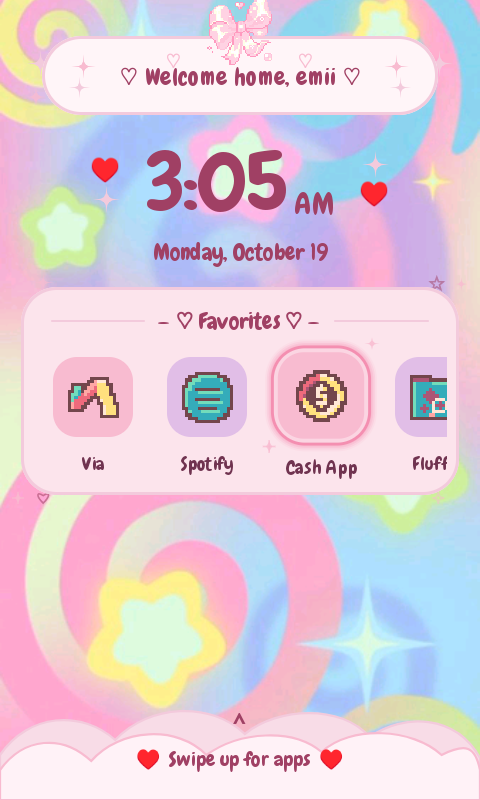
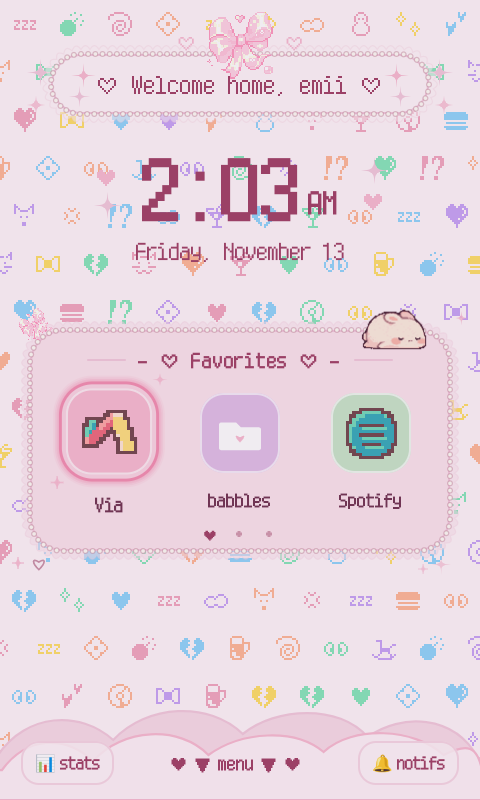
docs: update showcase screenshots

diff --git a/docs/index.html b/docs/index.html
@@ -376,28 +376,36 @@
             <figcaption>home screen</figcaption>
           </figure></li>
           <li class="polaroid"><figure>
-            <img src="screenshots/2_folder.png" alt="Mochibun folders" width="480" height="800" loading="lazy">
-            <figcaption>folders</figcaption>
-          </figure></li>
-          <li class="polaroid"><figure>
-            <img src="screenshots/3_appdrawer.png" alt="Mochibun app drawer" width="480" height="800" loading="lazy">
+            <img src="screenshots/2_appdrawer.png" alt="Mochibun app drawer" width="480" height="800" loading="lazy">
             <figcaption>app drawer</figcaption>
           </figure></li>
           <li class="polaroid"><figure>
-            <img src="screenshots/4_recents.png" alt="Mochibun recents" width="480" height="800" loading="lazy">
+            <img src="screenshots/3_recents.png" alt="Mochibun recents" width="480" height="800" loading="lazy">
             <figcaption>recents</figcaption>
           </figure></li>
           <li class="polaroid"><figure>
-            <img src="screenshots/5_themestudio.png" alt="Mochibun theme studio" width="480" height="800" loading="lazy">
-            <figcaption>theme studio</figcaption>
+            <img src="screenshots/4_folder.png" alt="Mochibun folders" width="480" height="800" loading="lazy">
+            <figcaption>folders</figcaption>
           </figure></li>
           <li class="polaroid"><figure>
-            <img src="screenshots/6_settings.png" alt="Mochibun settings" width="480" height="800" loading="lazy">
+            <img src="screenshots/5_stats.png" alt="Mochibun usage stats" width="480" height="800" loading="lazy">
+            <figcaption>usage stats</figcaption>
+          </figure></li>
+          <li class="polaroid"><figure>
+            <img src="screenshots/6_notifs.png" alt="Mochibun notifications" width="480" height="800" loading="lazy">
+            <figcaption>notifications</figcaption>
+          </figure></li>
+          <li class="polaroid"><figure>
+            <img src="screenshots/7_wheel.png" alt="Mochibun kaomoji wheel" width="480" height="800" loading="lazy">
+            <figcaption>kaomoji wheel</figcaption>
+          </figure></li>
+          <li class="polaroid"><figure>
+            <img src="screenshots/8_settings.png" alt="Mochibun settings" width="480" height="800" loading="lazy">
             <figcaption>settings</figcaption>
           </figure></li>
           <li class="polaroid"><figure>
-            <img src="screenshots/7_buttonremap.png" alt="Mochibun button remap" width="480" height="800" loading="lazy">
-            <figcaption>button remap</figcaption>
+            <img src="screenshots/9_systemui.png" alt="Mochibun system ui theme" width="480" height="800" loading="lazy">
+            <figcaption>system ui theme</figcaption>
           </figure></li>
         </ul>
 
